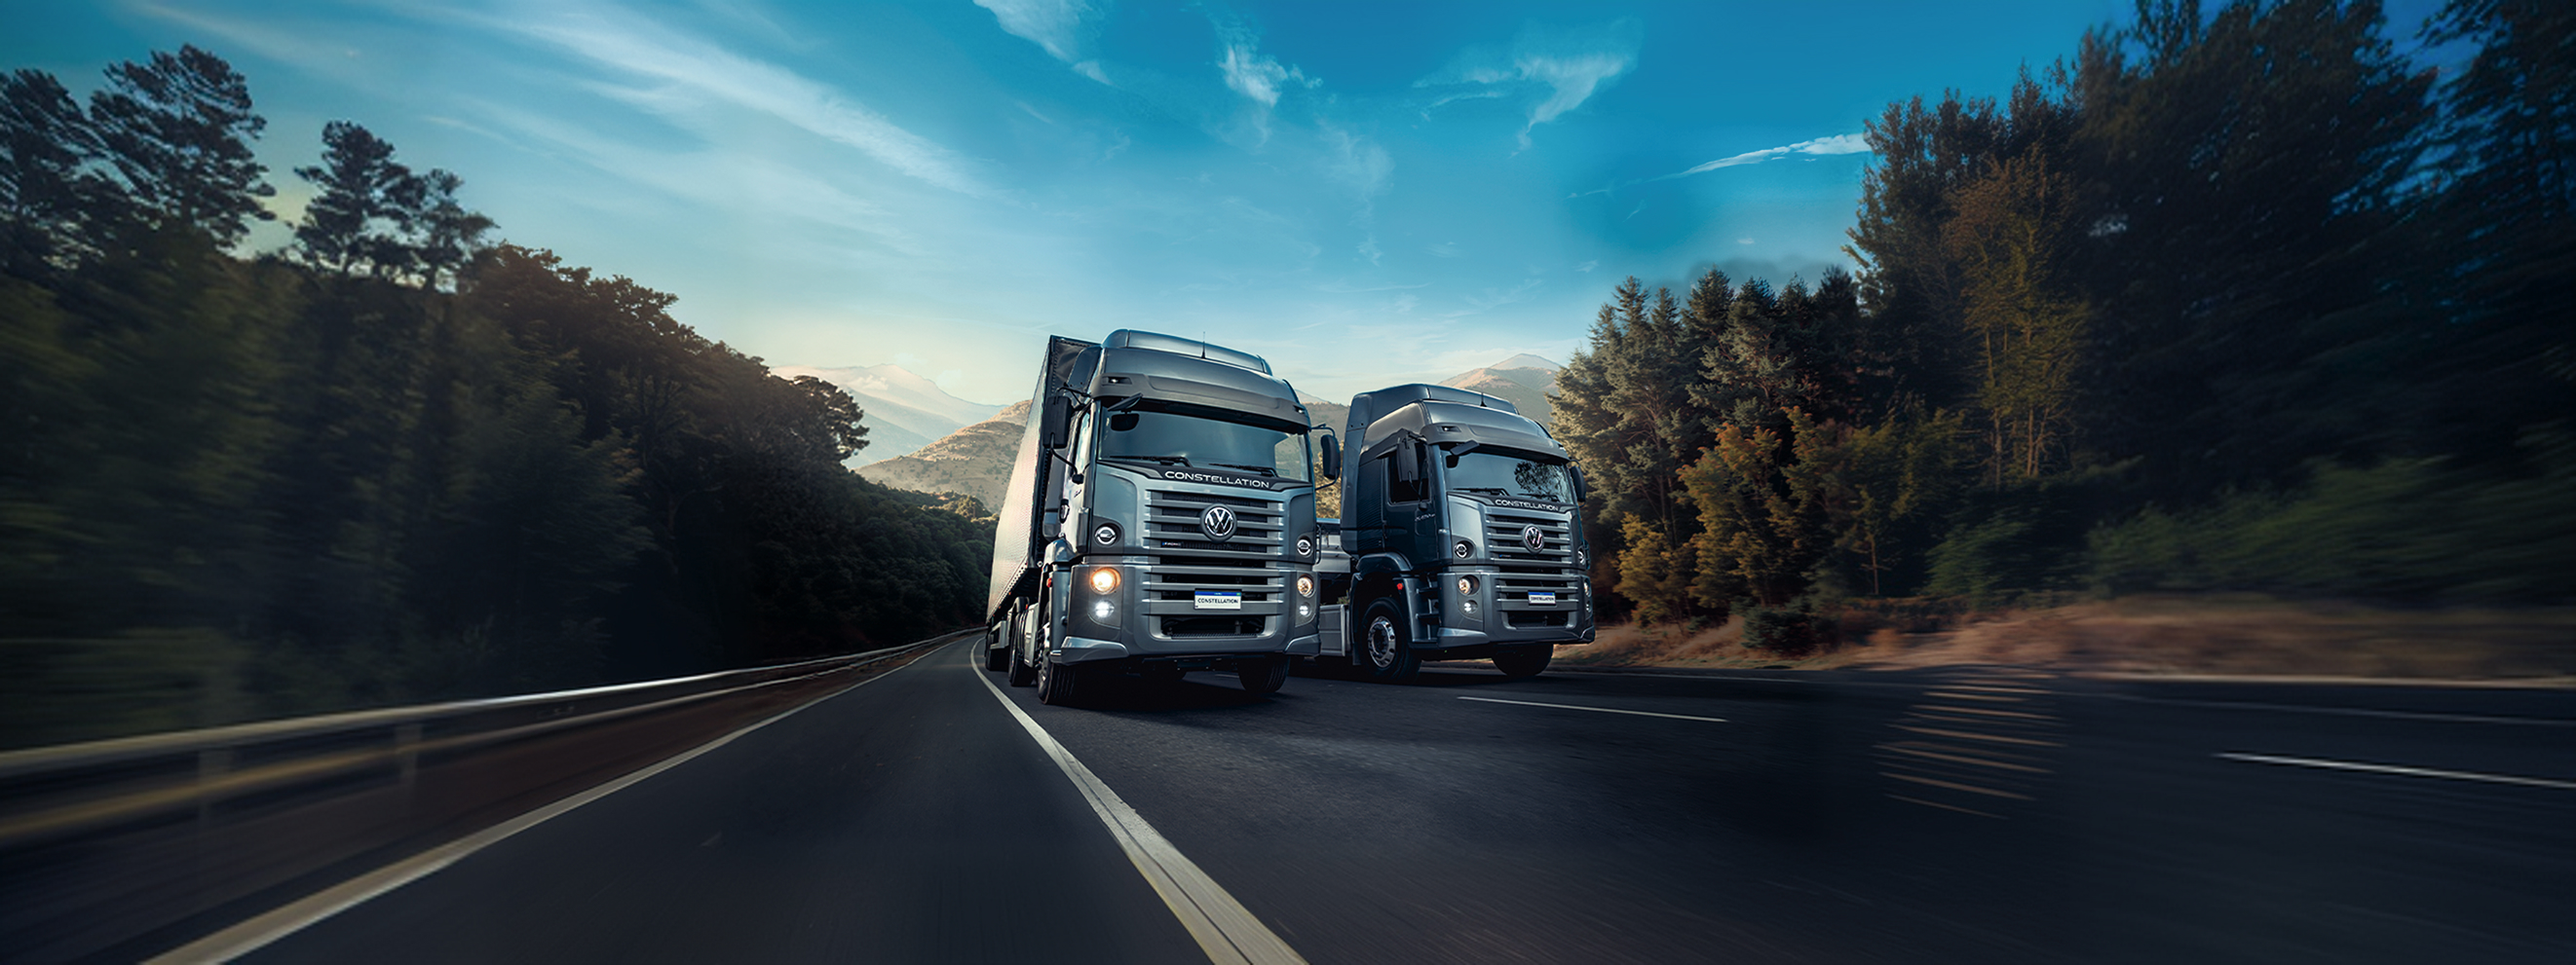
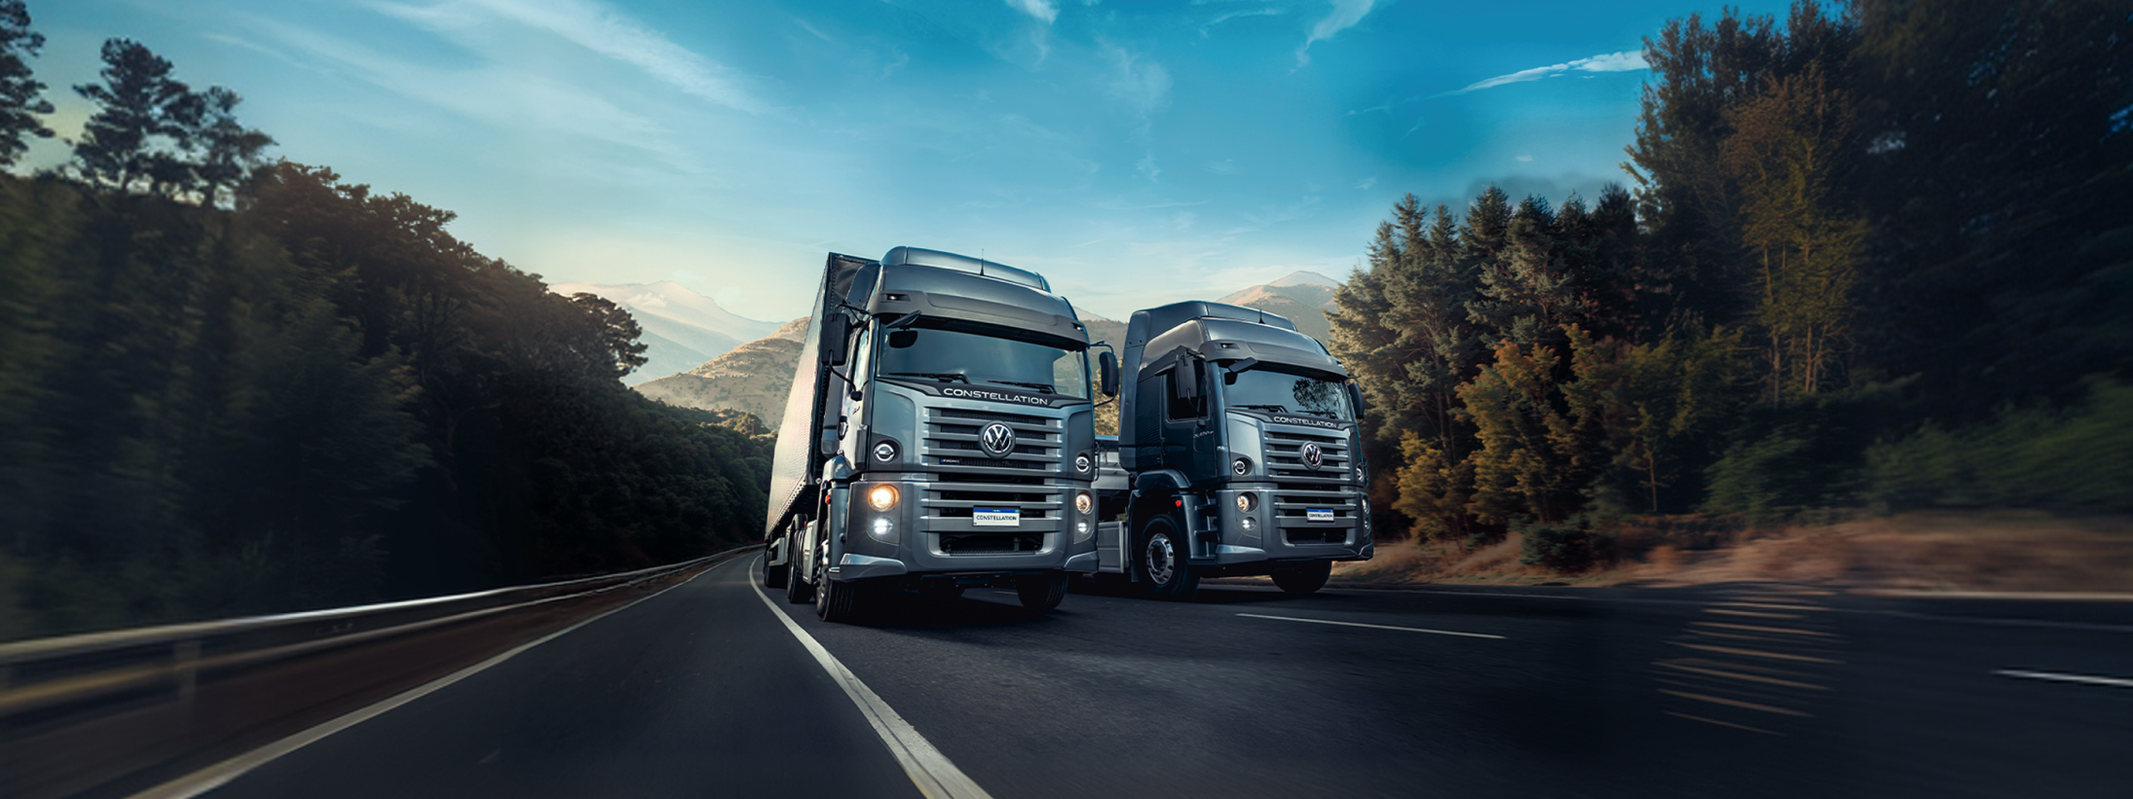
Use final fixed cost hero image with autoplay

diff --git a/src/components/landing/LandingSections.tsx b/src/components/landing/LandingSections.tsx
@@ -2,12 +2,13 @@
 
 /* eslint-disable @next/next/no-img-element */
 
-import { useEffect, useRef, useState } from "react";
+import { useCallback, useEffect, useRef, useState } from "react";
 import Link from "next/link";
 import { faqs, trucks, type Truck } from "@/data/landing";
 import { TruckSelectionCard } from "@/components/TruckSelectionCard";
 
 const asset = (name: string) => `/assets/figma/${name}`;
+const heroAutoplayDelayMs = 6000;
 
 type HeroSlide = {
   id: string;
@@ -68,8 +69,6 @@ function SectionTitle({
 
 export function HeroSection() {
   const [currentSlideIndex, setCurrentSlideIndex] = useState(0);
-  const previousBannerButtonRef = useRef<HTMLButtonElement>(null);
-  const nextBannerButtonRef = useRef<HTMLButtonElement>(null);
   const currentSlide = heroSlides[currentSlideIndex];
   const isBackgroundSlide = currentSlide.variant === "background";
 
@@ -88,24 +87,23 @@ export function HeroSection() {
     ["hero-icon-baseline-chart.svg", "hero-icon-overlay hero-icon-baseline-chart"],
   ] as const;
 
-  useEffect(() => {
-    const previousButton = previousBannerButtonRef.current;
-    const nextButton = nextBannerButtonRef.current;
-    const showPreviousBanner = () => {
-      setCurrentSlideIndex((index) => (index - 1 + heroSlides.length) % heroSlides.length);
-    };
-    const showNextBanner = () => {
-      setCurrentSlideIndex((index) => (index + 1) % heroSlides.length);
-    };
+  const showPreviousBanner = useCallback(() => {
+    setCurrentSlideIndex((index) => (index - 1 + heroSlides.length) % heroSlides.length);
+  }, []);
 
-    previousButton?.addEventListener("click", showPreviousBanner);
-    nextButton?.addEventListener("click", showNextBanner);
+  const showNextBanner = useCallback(() => {
+    setCurrentSlideIndex((index) => (index + 1) % heroSlides.length);
+  }, []);
+
+  useEffect(() => {
+    const autoplay = window.setInterval(() => {
+      showNextBanner();
+    }, heroAutoplayDelayMs);
 
     return () => {
-      previousButton?.removeEventListener("click", showPreviousBanner);
-      nextButton?.removeEventListener("click", showNextBanner);
+      window.clearInterval(autoplay);
     };
-  }, []);
+  }, [showNextBanner]);
 
 
   return (
@@ -207,10 +205,10 @@ export function HeroSection() {
               <span className="hero-cta-arrow" aria-hidden="true" />
             </a>
             <div className="hero-banner-control" aria-label="Controle do banner" data-node-id="540:9075">
-              <button ref={previousBannerButtonRef} type="button" aria-label="Banner anterior">
+              <button type="button" aria-label="Banner anterior" onClick={showPreviousBanner}>
                 <span aria-hidden="true" />
               </button>
-              <button ref={nextBannerButtonRef} type="button" aria-label="Próximo banner">
+              <button type="button" aria-label="Próximo banner" onClick={showNextBanner}>
                 <span aria-hidden="true" />
               </button>
             </div>

diff --git a/src/app/styles/landing.css b/src/app/styles/landing.css
@@ -487,7 +487,7 @@
   position: absolute;
   top: 50%;
   transform: translate(-50%, -50%);
-  width: max(100%, calc(var(--hero-surface-height) * 2644 / 991));
+  width: max(100%, calc(var(--hero-surface-height) * 2190 / 821));
   z-index: 1;
 }
 
